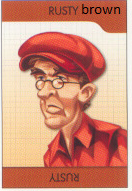
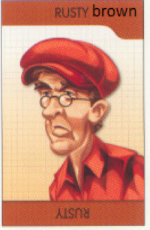
resized cards, organized card layout, fixed turnNumber update

diff --git a/HandOfCardsState.cpp b/HandOfCardsState.cpp
@@ -25,6 +25,25 @@ namespace gui {
 			(this->returnButton.getGlobalBounds().width / 2),
 			(SCREEN_HEIGHT) - (this->returnButton.getGlobalBounds().height));
 
+		loadPlayerCards();
+
+		float offset = this->playerCards.at(0).getGlobalBounds().width;
+		//set positions of player cards in grid
+		for (int i = 0; i < this->playerCards.size(); i++) {
+			if (i % 2 == 0) {
+				this->playerCards.at(i).setPosition(
+					((i * this->playerCards.at(i).getGlobalBounds().width*1.1) + (SCREEN_WIDTH/10)), //X
+					(0 + (SCREEN_HEIGHT / 5))); //Y
+			}
+			else {
+				this->playerCards.at(i).setPosition(
+					((i * this->playerCards.at(i).getGlobalBounds().width*1.1) + (SCREEN_WIDTH / 10)), //X
+					(SCREEN_HEIGHT - (this->playerCards.at(i).getGlobalBounds().height * 1.4))); //Y
+			}
+			offset *= offset*(i*.1);
+			
+		}
+
 	}
 
 	void HandOfCardsState::handleInput() {
@@ -39,6 +58,8 @@ namespace gui {
 				this->data->machine.removeState();
 			}
 
+			//event for if mouse hovers over a card
+
 		}
 	}
 
@@ -50,10 +71,154 @@ namespace gui {
 		this->data->window.clear(sf::Color::Black);
 		this->data->window.draw(this->background);
 		this->data->window.draw(this->returnButton);
+		for (int i = 0; i < this->playerCards.size(); i++) {
+			this->data->window.draw(this->playerCards.at(i));
+		}
 		this->data->window.display();
 	}
 
 	void HandOfCardsState::loadPlayerCards() {
+		int player_id = this->data->turnNumber % this->data->players.size();
+		for (int i = 0; i < this->data->players.at(player_id).hand.size(); i++) {
+			std::string cardName = this->data->players.at(player_id).hand.at(i).getName();
 
+			switch (this->data->players.at(player_id).hand.at(i).getType()) {
+			case'r': initRoomCard(cardName);
+				break;
+			case'w': initWeaponCard(cardName);
+				break;
+			case'c': initColorCard(cardName);
+				break;
+			default:
+				throw "Unable to load Card type";
+			}
+		}
+	}
+
+	void HandOfCardsState::initRoomCard(std::string roomName) {
+		if (roomName == "study") {
+			this->data->assets.loadTexture("Study Room Card", STUDY_CARD_FILEPATH);
+			sf::Sprite newRoomCard; 
+			newRoomCard.setTexture(this->data->assets.getTexture("Study Room Card"));
+			this->playerCards.push_back(newRoomCard);
+		}
+		else if (roomName == "library") {
+			this->data->assets.loadTexture("Library Room Card", LIBRARY_CARD_FILEPATH);
+			sf::Sprite newRoomCard;
+			newRoomCard.setTexture(this->data->assets.getTexture("Library Room Card"));
+			this->playerCards.push_back(newRoomCard);
+		}
+		else if (roomName == "conservatory") {
+			this->data->assets.loadTexture("Conservatory Room Card", CONSERVATORY_CARD_FILEPATH);
+			sf::Sprite newRoomCard;
+			newRoomCard.setTexture(this->data->assets.getTexture("Conservatory Room Card"));
+			this->playerCards.push_back(newRoomCard);
+		}
+		else if (roomName == "hall") {
+			this->data->assets.loadTexture("Hall Room Card", HALL_CARD_FILEPATH);
+			sf::Sprite newRoomCard;
+			newRoomCard.setTexture(this->data->assets.getTexture("Hall Room Card"));
+			this->playerCards.push_back(newRoomCard);
+		}
+		else if (roomName == "kitchen") {
+			this->data->assets.loadTexture("Kitchen Room Card", KITCHEN_CARD_FILEPATH);
+			sf::Sprite newRoomCard;
+			newRoomCard.setTexture(this->data->assets.getTexture("Kitchen Room Card"));
+			this->playerCards.push_back(newRoomCard);
+		}
+		else if (roomName == "ballroom") {
+			this->data->assets.loadTexture("Ballroom Room Card", BALLROOM_CARD_FILEPATH);
+			sf::Sprite newRoomCard;
+			newRoomCard.setTexture(this->data->assets.getTexture("Ballroom Room Card"));
+			this->playerCards.push_back(newRoomCard);
+		}
+		else if (roomName == "lounge") {
+			this->data->assets.loadTexture("Lounge Room Card", LOUNGE_CARD_FILEPATH);
+			sf::Sprite newRoomCard;
+			newRoomCard.setTexture(this->data->assets.getTexture("Lounge Room Card"));
+			this->playerCards.push_back(newRoomCard);
+		}
+		else if (roomName == "billiard room") {
+			this->data->assets.loadTexture("Billiard Room Card", BILLARD_CARD_FILEPATH);
+			sf::Sprite newRoomCard;
+			newRoomCard.setTexture(this->data->assets.getTexture("Billiard Room Card"));
+			this->playerCards.push_back(newRoomCard);
+		}
+	}
+	void HandOfCardsState::initWeaponCard(std::string weaponName) {
+		if (weaponName == "candlestick") {
+			this->data->assets.loadTexture("Candlestick Weapon Card", CANDLESTICK_CARD_FILEPATH);
+			sf::Sprite newWeaponCard;
+			newWeaponCard.setTexture(this->data->assets.getTexture("Candlestick Weapon Card"));
+			this->playerCards.push_back(newWeaponCard);
+		}
+		else if (weaponName == "revolver") {
+			this->data->assets.loadTexture("Revolver Weapon Card", REVOLVER_CARD_FILEPATH);
+			sf::Sprite newWeaponCard;
+			newWeaponCard.setTexture(this->data->assets.getTexture("Revolver Weapon Card"));
+			this->playerCards.push_back(newWeaponCard);
+		}
+		else if (weaponName == "rope") {
+			this->data->assets.loadTexture("Rope Weapon Card", ROPE_CARD_FILEPATH);
+			sf::Sprite newWeaponCard;
+			newWeaponCard.setTexture(this->data->assets.getTexture("Rope Weapon Card"));
+			this->playerCards.push_back(newWeaponCard);
+		}
+		else if (weaponName == "wrench") {
+			this->data->assets.loadTexture("Wrench Weapon Card", WRENCH_CARD_FILEPATH);
+			sf::Sprite newWeaponCard;
+			newWeaponCard.setTexture(this->data->assets.getTexture("Wrench Weapon Card"));
+			this->playerCards.push_back(newWeaponCard);
+		}
+		else if (weaponName == "lead pipe") {
+			this->data->assets.loadTexture("Lead Pipe Weapon Card", LEADPIPE_CARD_FILEPATH);
+			sf::Sprite newWeaponCard;
+			newWeaponCard.setTexture(this->data->assets.getTexture("Lead Pipe Weapon Card"));
+			this->playerCards.push_back(newWeaponCard);
+		}
+		else if (weaponName == "knife") {
+			this->data->assets.loadTexture("Knife Weapon Card", KNIFE_CARD_FILEPATH);
+			sf::Sprite newWeaponCard;
+			newWeaponCard.setTexture(this->data->assets.getTexture("Knife Weapon Card"));
+			this->playerCards.push_back(newWeaponCard);
+		}
+	}
+	void HandOfCardsState::initColorCard(std::string colorName) {
+		if (colorName == "white") {
+			this->data->assets.loadTexture("White Color Card", WHITE_CARD_FILEPATH);
+			sf::Sprite newColorCard;
+			newColorCard.setTexture(this->data->assets.getTexture("White Color Card"));
+			this->playerCards.push_back(newColorCard);
+		}
+		else if (colorName == "blue") {
+			this->data->assets.loadTexture("Blue Color Card", BLUE_CARD_FILEPATH);
+			sf::Sprite newColorCard;
+			newColorCard.setTexture(this->data->assets.getTexture("Blue Color Card"));
+			this->playerCards.push_back(newColorCard);
+		}
+		else if (colorName == "red") {
+			this->data->assets.loadTexture("Red Color Card", RED_CARD_FILEPATH);
+			sf::Sprite newColorCard;
+			newColorCard.setTexture(this->data->assets.getTexture("Red Color Card"));
+			this->playerCards.push_back(newColorCard);
+		}
+		else if (colorName == "brown") {
+			this->data->assets.loadTexture("Brown Color Card", BROWN_CARD_FILEPATH);
+			sf::Sprite newColorCard;
+			newColorCard.setTexture(this->data->assets.getTexture("Brown Color Card"));
+			this->playerCards.push_back(newColorCard);
+		}
+		else if (colorName == "green") {
+			this->data->assets.loadTexture("Green Color Card", GREEN_CARD_FILEPATH);
+			sf::Sprite newColorCard;
+			newColorCard.setTexture(this->data->assets.getTexture("Green Color Card"));
+			this->playerCards.push_back(newColorCard);
+		}
+		else if (colorName == "purple") {
+			this->data->assets.loadTexture("Purple Color Card", PURPLE_CARD_FILEPATH);
+			sf::Sprite newColorCard;
+			newColorCard.setTexture(this->data->assets.getTexture("Purple Color Card"));
+			this->playerCards.push_back(newColorCard);
+		}
 	}
 }

diff --git a/GameState.cpp b/GameState.cpp
@@ -384,6 +384,8 @@ namespace gui {
 				turn = i;
 			else
 				turn = rand() % this->data->players.size();
+
+			this->data->turnNumber = turn;
 		}
 	}
 
@@ -484,6 +486,7 @@ namespace gui {
 		if (!moves) {
 			gameState = GameStates::eTurnOver;
 			turn++;
+			this->data->turnNumber = turn;
 			if (turn >= this->data->players.size())
 				turn = 0;
 		}

diff --git a/HandOfCardsState.hpp b/HandOfCardsState.hpp
@@ -12,6 +12,9 @@ namespace gui {
 
 		void init();
 		void loadPlayerCards();
+		void initWeaponCard(std::string weaponName);
+		void initRoomCard(std::string roomName);
+		void initColorCard(std::string colorName);
 
 		void handleInput();
 		void update(float dt);

diff --git a/Game.hpp b/Game.hpp
@@ -19,6 +19,7 @@ namespace gui {
 		AssetManager assets;
 		InputManager input;
 		vector<Player> players;
+		int turnNumber;
 	};
 
 	typedef std::shared_ptr<GameData> GameDataRef;
